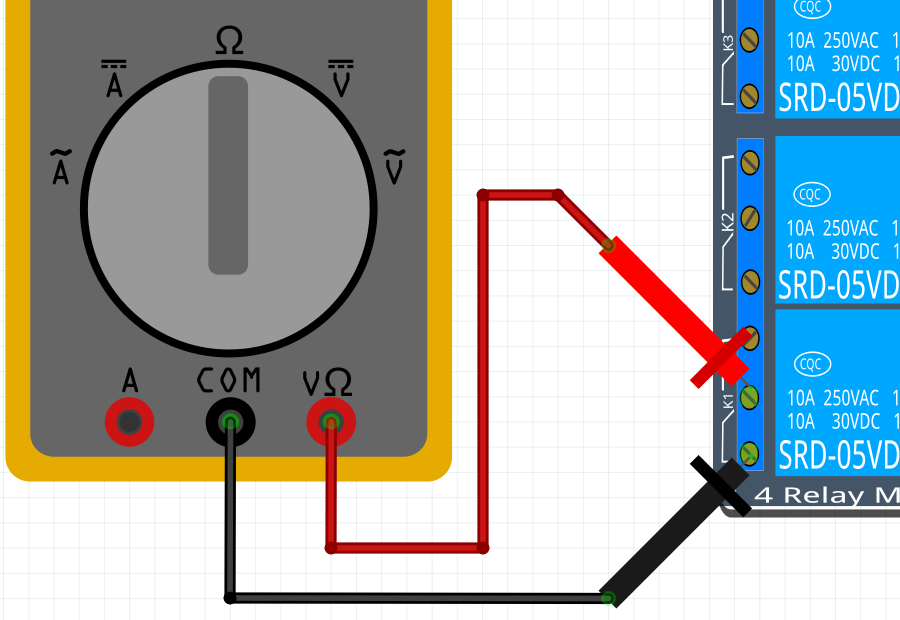
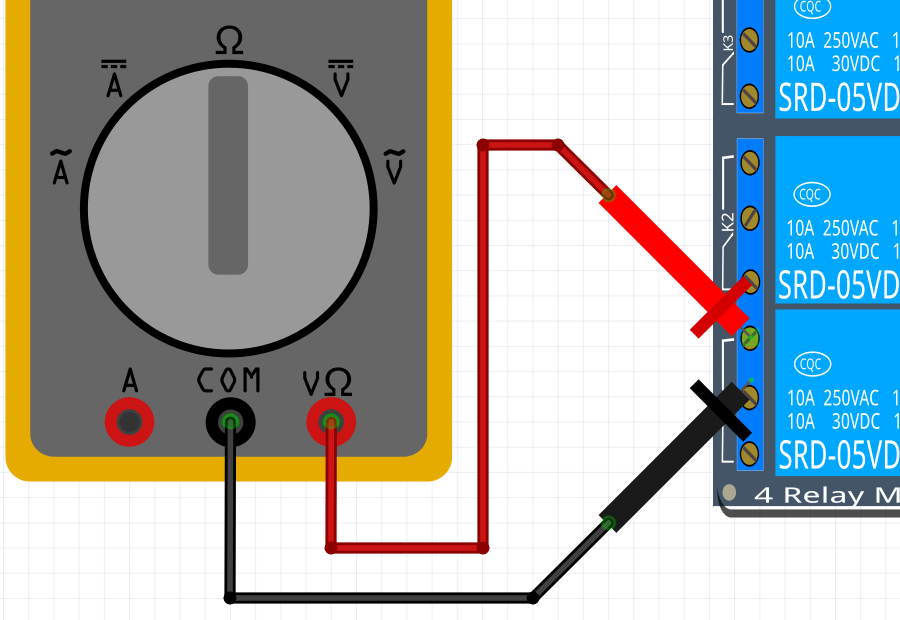
Renumber

Changed region(s): [[0.3733, 0.2145, 0.84, 0.9806]]

diff --git a/docs/kapitel/22_maetning_av_en_relais/README.md b/docs/kapitel/22_maetning_av_en_relais/README.md
@@ -63,12 +63,12 @@ Koppla en relais så här:
 
 ![Koppla en relais](22_maetning_av_en_relais_connect.png)
 
-## 22.3. Mät mellan 2 och 3
+## 22.3. Mät mellan 1 och 2
 
 Med din multimeter, mäter motståndet mellan
-ingång två och tre av den fjärde relais, så här:
+ingång en och två av den första relais, så här:
 
-![22.3. Mät mellan 2 och 3](22_maetning_av_en_relais_connect_2_and_3.png)
+![22.3. Mät mellan 1 och 2](22_maetning_av_en_relais_connect_2_and_3.png)
 
 Multimetern behövs inte vara skruvad i ingångerna,
 att sticka den på skruvarna av ingånger
@@ -79,26 +79,26 @@ Vad är motståndet? Vad betyder det?
 ### 22.3. Svar
 
 Motstånded är noll Ohm.
-Det betyder att el kan ströma fritt mellan ingånger 2 och 3.
+Det betyder att el kan ströma fritt mellan ingånger 1 och 2.
 
-## 22.4. Mät mellan 1 och 2
+## 22.4. Mät mellan 2 och 3
 
 Med din multimeter, mäter motståndet mellan
-ingång en och två av den fjärde relais, så här:
+ingång två och tre av den första relais, så här:
 
-![22](22_maetning_av_en_relais_connect_1_and_2.png)
+![22](22_maetning_av_en_relais_connect_2_and_3.png)
 
 Vad är motståndet? Vad betyder det?
 
 ### 22.4. Svar
 
 Motstånded är oändligt Ohm.
-Det betyder att el kan inte ströma mellan ingånger 1 och 2.
+Det betyder att el kan inte ströma mellan ingånger 2 och 3.
 
 ## 22.5. Mät mellan 1 och 3
 
 Med din multimeter, mäter motståndet mellan
-ingång en och två av den fjärde relais, så här:
+ingång en och två av den första relais, så här:
 
 ![22](22_maetning_av_en_relais_connect_1_and_3.png)
 
@@ -113,9 +113,9 @@ Här är en översikt av vad vi har mått nu:
 
 Stift|Stift|Motsånd
 -----|-----|--------
-1    |2    |Noll
+1    |2    |Oändligt
 1    |3    |Oändligt
-2    |3    |Oändligt
+2    |3    |Noll
 
 ## 22.6. Sätt på en relais
 
